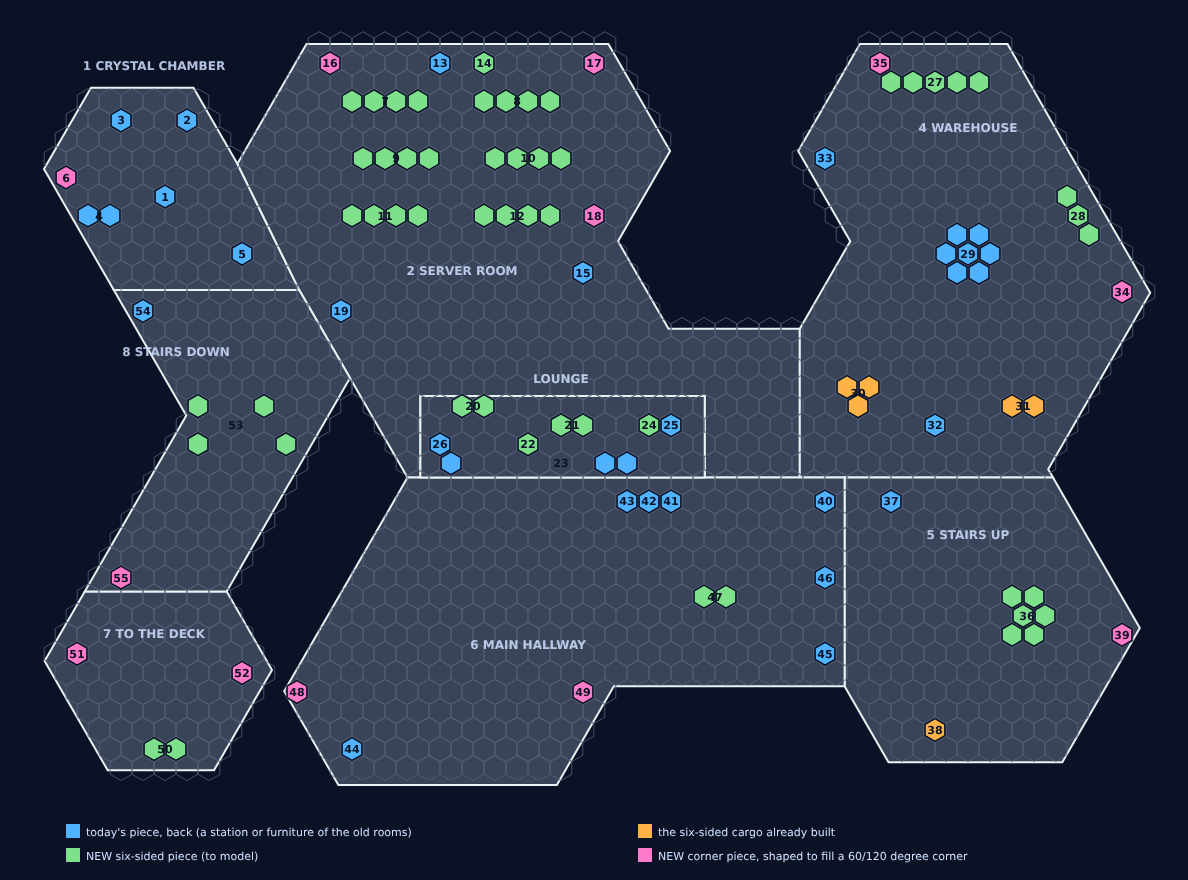
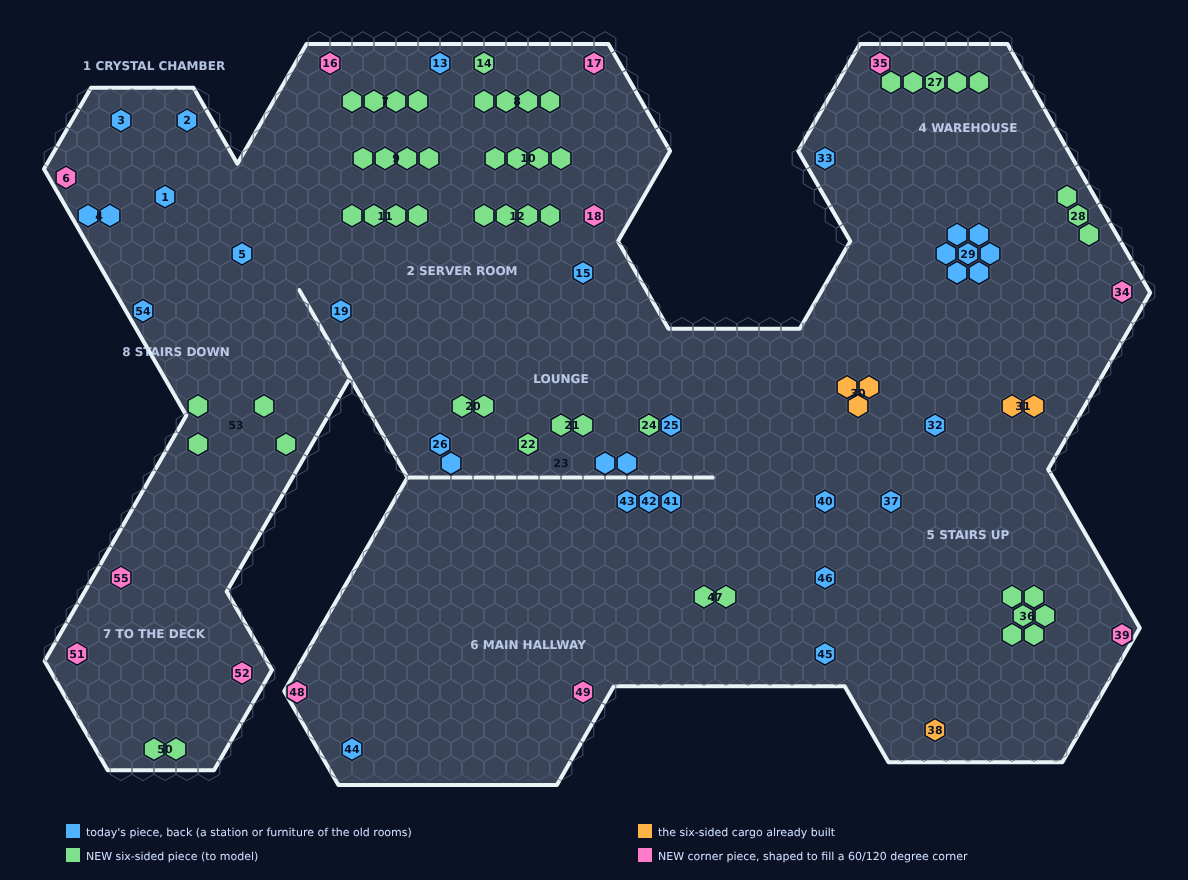
Furnishing draft 1 redrawn: no border lines between rooms (they run into each other), only the outer walls and the owner's two walls
Claude-Session: https://claude.ai/code/session_0115DZYYhipQqSk6LHvQcEfz

diff --git a/design/maps/hex-ground-floor/furnishing-draft-1.py b/design/maps/hex-ground-floor/furnishing-draft-1.py
@@ -117,8 +117,12 @@ json.dump([{'room': a, 'kind': b, 'label': c, 'hexes': d} for a, b, c, d in P], 
 S = 22; W = 54 * S; Hh = 40 * S; T = lambda p: ((p[0] + 2) * S, (p[1] + 2) * S)
 COL = {'R': '#4fb3ff', 'X': '#ffb347', 'N': '#7ee08a', 'C': '#ff7ac8'}
 o = [f'<svg xmlns="http://www.w3.org/2000/svg" width="{W}" height="{Hh}"><rect width="100%" height="100%" fill="#0b1226"/>']
-for rid, poly in ROOMS.items():
-    o.append('<polygon points="%s" fill="#3a4458" stroke="#e9f2f4" stroke-width="2"/>' % ' '.join('%.1f,%.1f' % T(p) for p in poly.exterior.coords))
+# the floor as one (no border between rooms: they run into each other), its outline the outer walls, and the owner's two walls inside it
+from shapely.ops import unary_union
+FL = unary_union([p.buffer(0.001) for p in ROOMS.values()]).buffer(-0.001)
+o.append('<polygon points="%s" fill="#3a4458" stroke="#e9f2f4" stroke-width="4" stroke-linejoin="round"/>' % ' '.join('%.1f,%.1f' % T(p) for p in FL.exterior.coords))
+_W = json.load(open(__import__('os').path.join(__import__('os').path.dirname(__import__('os').path.abspath(__file__)), 'draft-5-chosen.json')))['walls']
+for wl in _W: o.append('<polyline points="%s" fill="none" stroke="#e9f2f4" stroke-width="4" stroke-linecap="round"/>' % ' '.join('%.1f,%.1f' % T(p) for p in wl))
 # the floor's hexes, faint
 for rr in range(int(DY / H) - 2, int((34 + DY) / H) + 2):
     for q in range(-1, 52):
